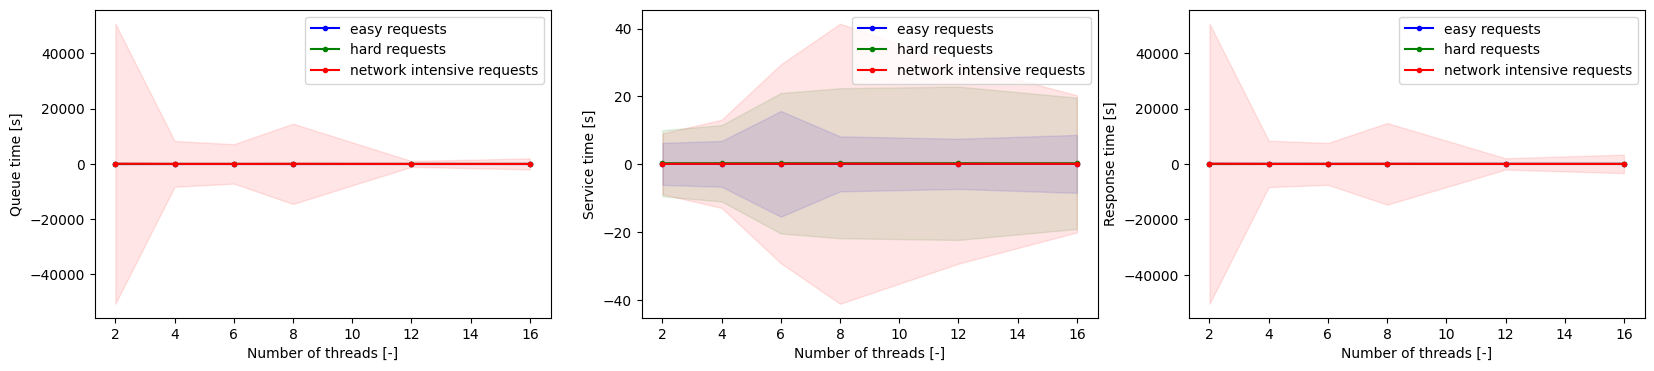
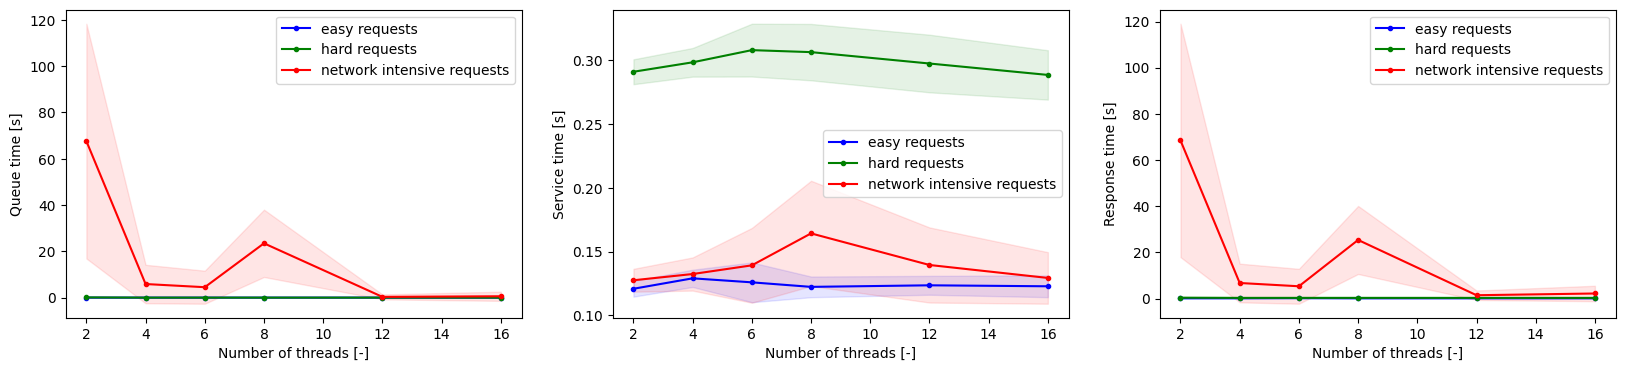
times in sec

diff --git a/measures/plots.py b/measures/plots.py
@@ -8,7 +8,7 @@ output_file = [lambda f, n, d, t : f"{server_output_file(f, n, d, t)}_queue.txt"
                lambda f, n, d, t : f"{client_output_file(f, n, d, t)}.txt".replace('\\', '')]
 
 plot_types = ["Queue", "Service", "Response"]
-plots = ["Number of clients [-]", "Mean delay [ms]", "Number of threads [-]"]
+plots = ["Number of clients [-]", "Mean delay [s]", "Number of threads [-]"]
 input_values = [variable_inputs[np.logical_and(variable_inputs[:,1] == delays[0]   , variable_inputs[:,2] == n_threads[0])],
                 variable_inputs[np.logical_and(variable_inputs[:,0] == n_clients[0], variable_inputs[:,2] == n_threads[0])],
                 variable_inputs[np.logical_and(variable_inputs[:,0] == n_clients[0], variable_inputs[:,1] == delays[0]   )]]
@@ -22,7 +22,7 @@ for j, plot, input_variables in zip(range(len(plots)), plots, input_values):
         # plot variables
         plt.subplot(1, len(output_file), i+1)
         plt.xlabel(plot)
-        plt.ylabel(f"{plot_type} time [ms]")
+        plt.ylabel(f"{plot_type} time [s]")
         # iterate over requests types (easy, netw intensive, hard)
         for requests_type, c in zip(input_files, plot_colors):
             # iterate over different datapoints
@@ -32,12 +32,13 @@ for j, plot, input_variables in zip(range(len(plots)), plots, input_values):
                 # read the corresponding file
                 with open(file(requests_type, n, d, t), 'r') as f:
                     # add averages to listaverage
-                    lines = np.array(list(map(int, f.readlines())))
+                    lines = np.array(list(map(int, f.readlines())))/1000
                     avg = np.append(avg, np.average(lines))
                     std = np.append(std, np.std(lines))
+            
             # get argsort
             idx = np.argsort(input_variables[:, j])
-            plt.plot(input_variables[idx, j], avg[idx], label=requests_type.replace('-', ' '), color=c, marker='.')
-            plt.fill_between(input_variables[idx, j], avg[idx]-std[idx], avg[idx]+std[idx], color=c, alpha=0.1)
+            plt.plot(input_variables[idx, j] / (1000 if j==1 else 1), avg[idx], label=requests_type.replace('-', ' '), color=c, marker='.')
+            plt.fill_between(input_variables[idx, j] / (1000 if j==1 else 1), avg[idx]-std[idx], avg[idx]+std[idx], color=c, alpha=0.1)
             plt.legend()
     plt.savefig(f"{plt_path}{plot}", bbox_inches='tight')
